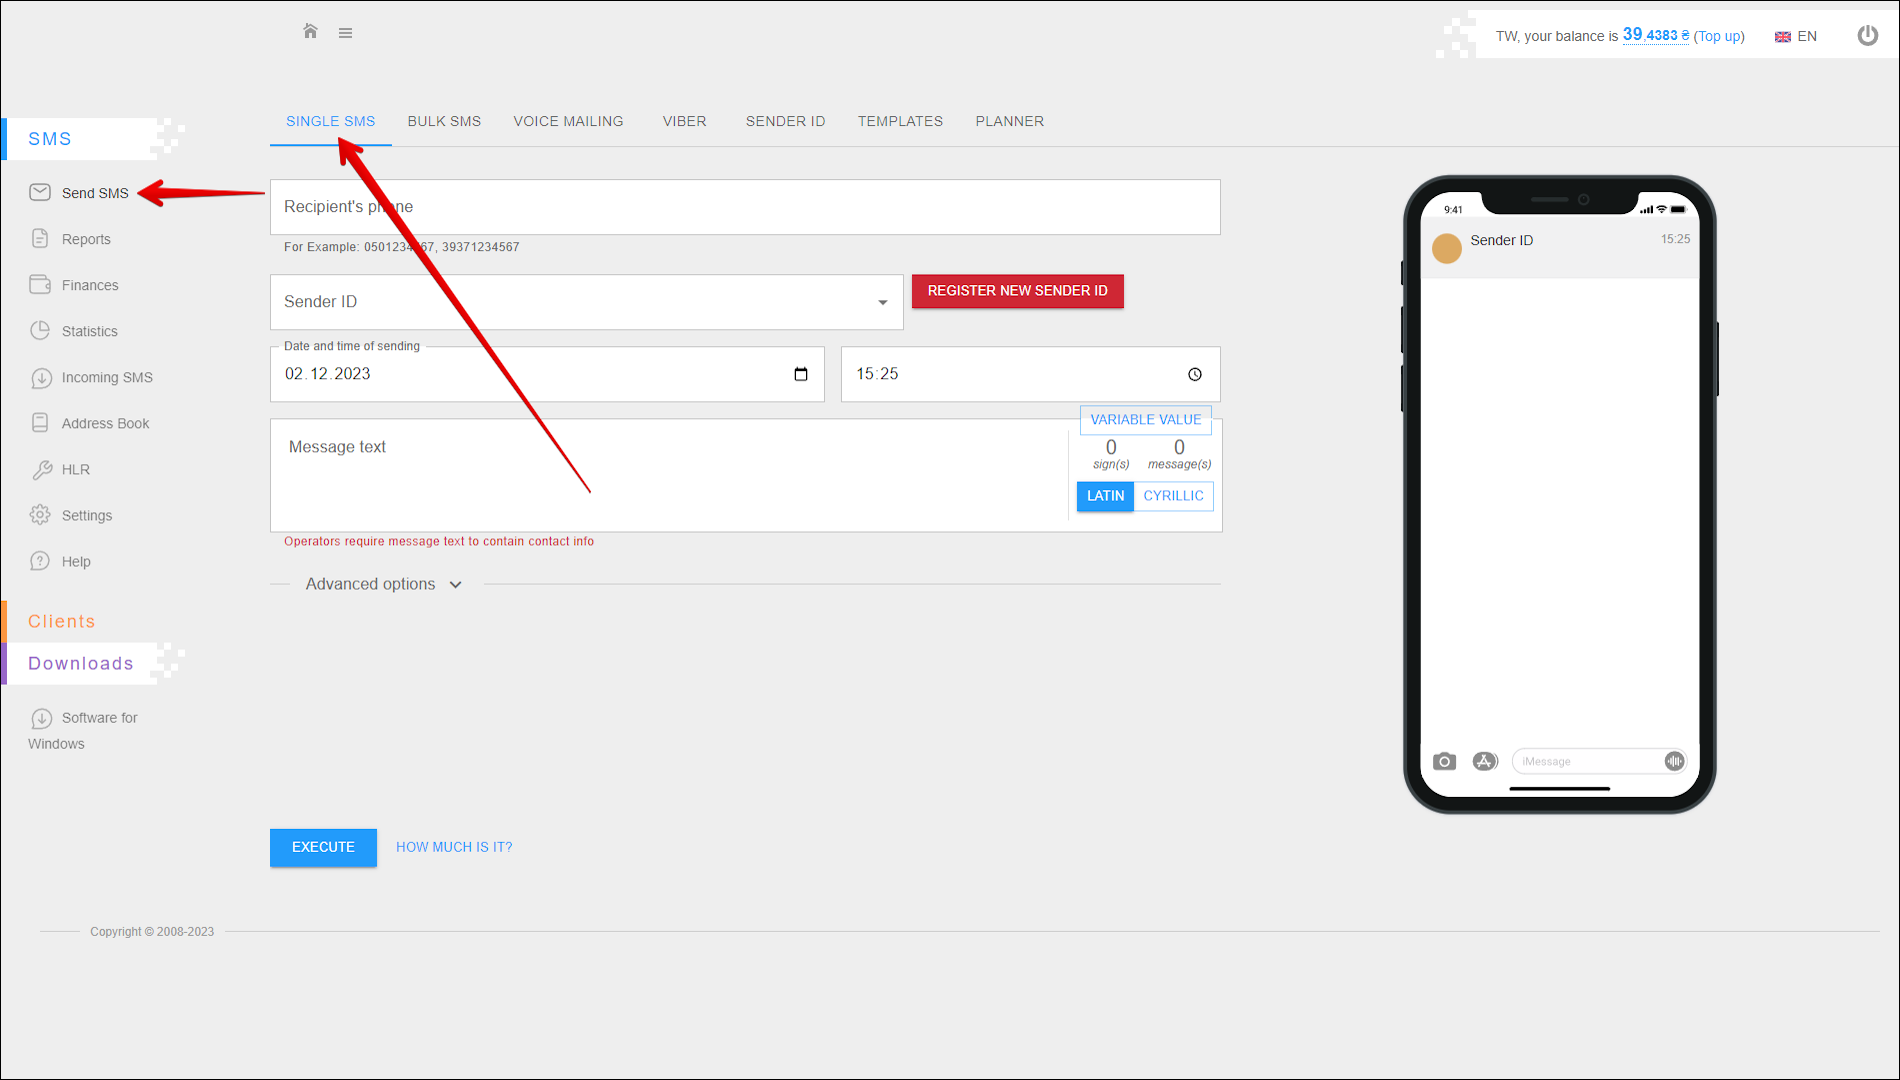
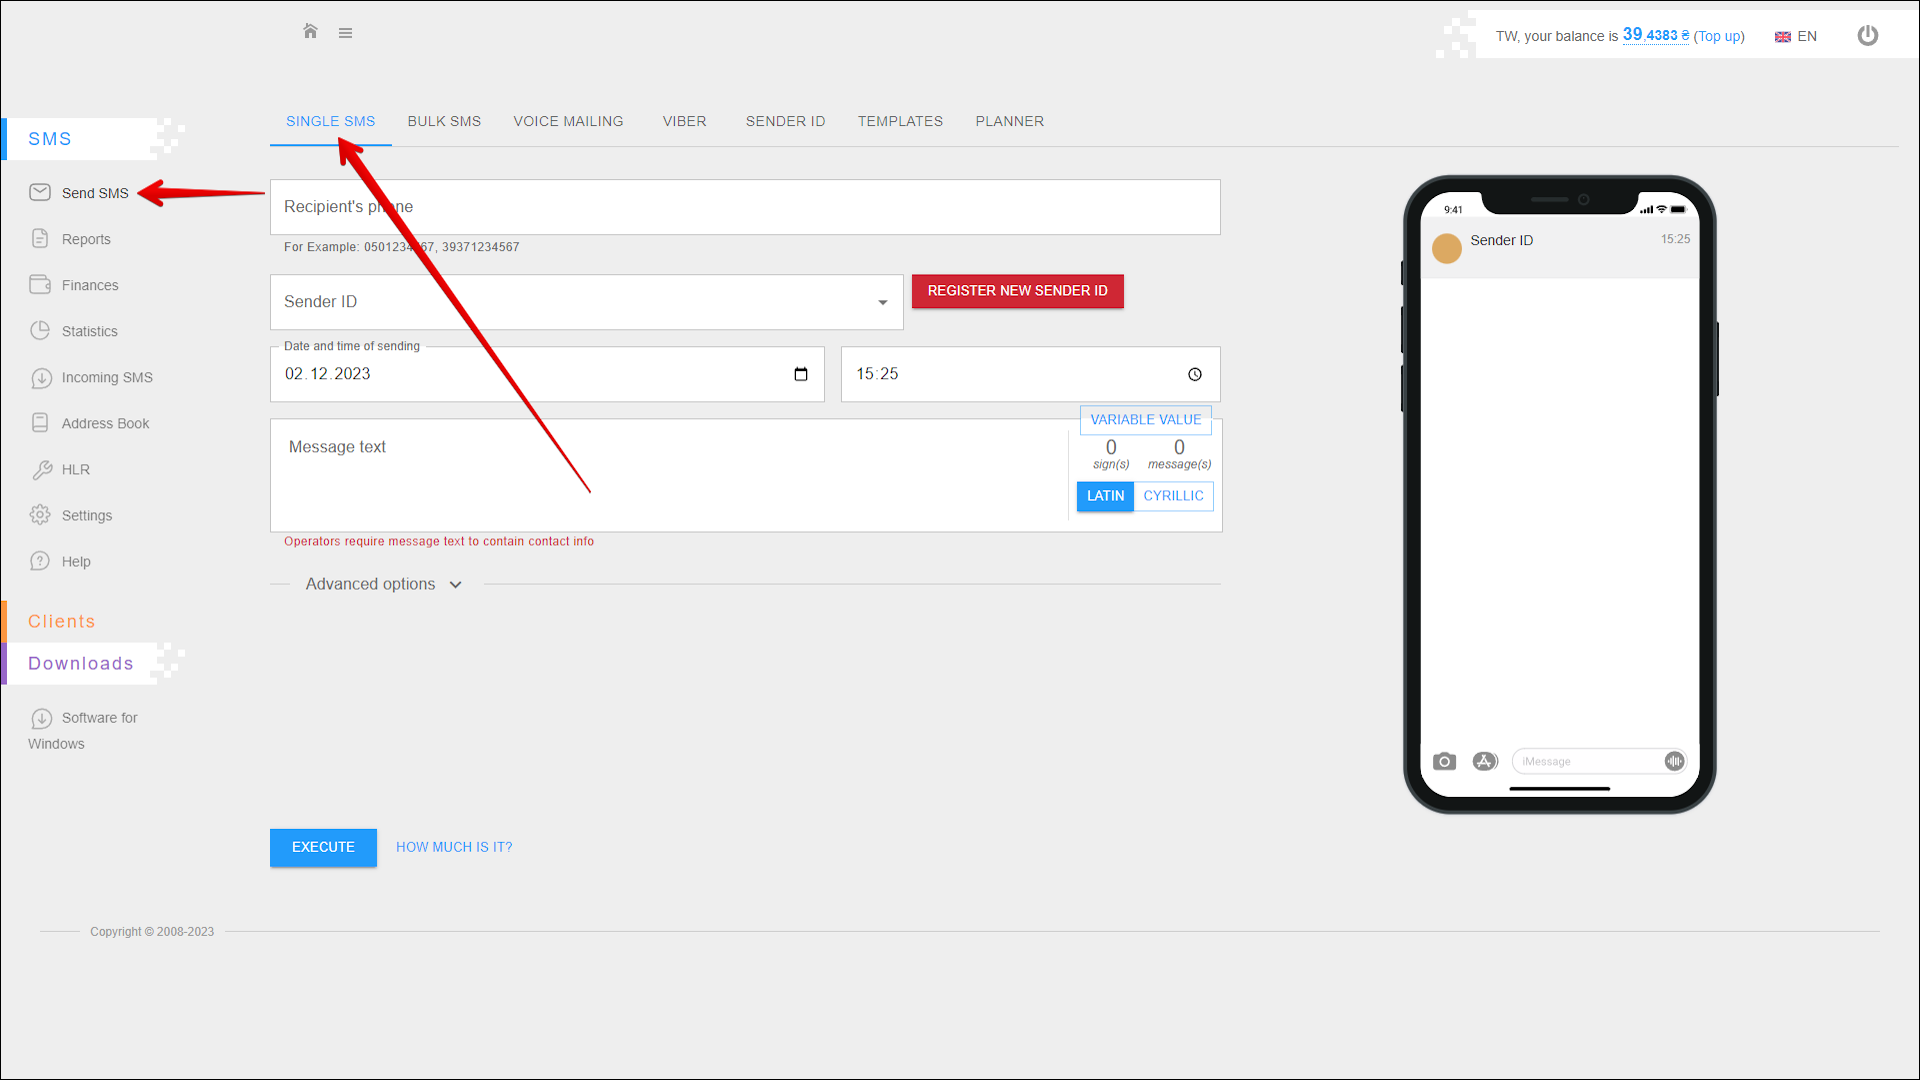
Bulk SMS

diff --git a/docs/instruction/sms/send_sms/bulk_sms.md b/docs/instruction/sms/send_sms/bulk_sms.md
@@ -3,3 +3,58 @@ id: bulk_sms
 title: Bulk SMS
 slug: /bulk_sms
 ---
+
+In this tab you can send bulk SMS to many numbers at the same time.
+
+To open this tab, open the **Send SMS** subsection and select the **BULK SMS** tab.
+
+![image1](/img/instruction/sms/send_sms/bulk_sms/image1.png)
+
+## Sending bulk sms
+
+To perform bulk SMS sending, follow the steps below:
+
+|  №  | Action |
+| :-: | ------ |
+| 1 | Select **recipients' phone numbers** from previously added address books. <br/> To create an address book and add recipient numbers to it, go to **Address Book** - [**RECIPIENTS**](/docs/instruction/sms/address_book/recipients.md) tab. |
+| 2 | Enter the **Sender ID** or select from a list of previously added Sender IDs. Click the **Sender ID** field to open that list. <br/> You can also register a new **Sender ID** by clicking the **REGISTER NEW SENDER ID** button to the right of the **Sender ID** field. You will be redirected to the [**SENDER ID**](/docs/instruction/sms/send_sms/sender_id.md) tab. |
+| 3 | Select the **date** on which you want to send the message. You can enter the date manually or select it in the calendar, to do this, click the **Calendar icon** on the right side of the field. |
+| 4 | Specify the **time** to send the message. You can enter the time manually or select from the list by pressing the **Clock** icon on the right side of the field. Be sure to specify **Kyiv** time. |
+| 5 | Specify the interval **end time** for even sms mailing. You can enter the time manually or select from the list by pressing the **Clock** icon on the right side of the field. Be sure to specify **Kyiv** time. To enable evenly sms mailing, select the **Send evenly** checkbox. |
+| 6 | Check the **Send evenly** checkbox to enable evenly SMS mailing. With even mailing, messages will be sent evenly over the time interval you select. |
+| 7 | Enter the **name of the mailing** to help you easily navigate through the reports in the future |
+| 8 | Enter the **message text** (sign limits per message: **70** for cyrillic and **160** for latin). <br/> Use the **VARIABLE VALUE** button to add a variable to the message text. <br/> The right side of the message text input field shows the **number of entered signs** and **the number of messages** required to send the entered text. <br/> You can also switch the message text from cyrillic to latin and vice versa using the **LATIN/CYRILLIC** selector. |
+| 9 | To check what the message will be like for the recipients, you can send yourself a test SMS. To do this, **enter the number** and press **SEND**. |
+
+Press **EXECUTE** to send the message.
+
+![image2](/img/instruction/sms/send_sms/bulk_sms/image2.png)
+
+To find out how much it costs to send a text message, click **HOW MUCH IS IT?** to the right of the **EXECUTE** button.
+
+![image3](/img/instruction/sms/send_sms/bulk_sms/image3.png)
+
+The **SMS Sending** pop-up window opens with detailed information about the cost of sending the message(s).
+
+![image4](/img/instruction/sms/send_sms/bulk_sms/image4.png)
+
+## Advanced options
+
+You can also apply additional options when you send sms. Click **Advanced options** to expand them.
+
+![image5](/img/instruction/sms/send_sms/bulk_sms/image5.png)
+
+|  №  | Option | Description |
+| :-: | ------ | ----------- |
+| 1 | **Mailing is valid until (Date)** | The date until which the mailing will be active. SMS messages will not be sent to recipients after the specified date and time. |
+| 2 | **Mailing is valid until (Time)** | The time until which the mailing will be active. SMS messages will not be sent to recipients after the specified date and time. Be sure to specify **Kyiv** time. |
+| 3 | **Wap-Push link** | Wap-Push message is a specially formed message containing a link to a certain internet resource. <br/> After receiving WAP push message, the recipient can follow this link on his/her cell phone. <br/> Please notice that the recipient will be able to open the Wap-Push link only if the phone has WAP settings. |
+| 4 | **Flash-SMS** | Flash-SMS is an SMS message that is immediately displayed on the phone screen when received. <br/> Flash-SMS are not stored in the phone memory or on the SIM card. <br/> Features: <ul><li>Only one part of the SMS</li><li>Sender's name is not transmitted</li><li>Delivered if the recipient is on the line and not talking on the phone</li></ul> |
+| 5 | **HLR** | HLR Lookup (Home Location Register) is a service for checking the validity of a number, as well as for obtaining detailed information about number, including identification of the mobile operator and whether the number is roaming. <br/> The service is absolutely confidential, the recipient does not receive any notification, as the request is directed to the equipment of the communication operator. <br/> Advantages: <ul><li>Cleaning of your customer base from non-working phones</li><li>Saving money before sending mailings</li><li>Roaming detection</li><li>Possibility to use the service both through Web interface, as well as integrate with API</li></ul> |
+| 6 | **Send me SMS upon completion of mailing** | Upon completion of the mailing you will be sent an SMS notification. |
+
+## Message preview
+
+On the right side of the page is a window in the form of a mobile phone. This window shows a preview of your message as it will be received by the recipient.
+
+![image6](/img/instruction/sms/send_sms/bulk_sms/image6.png)
